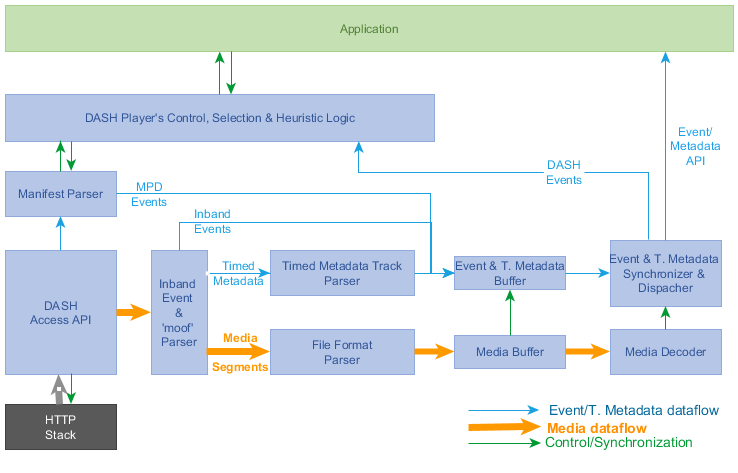
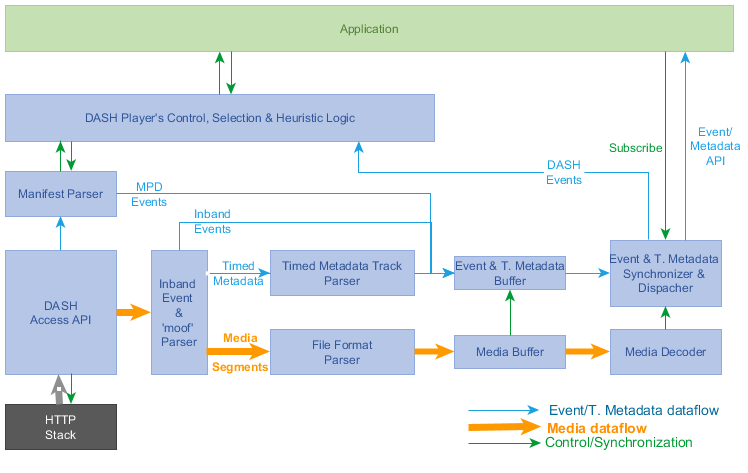
Addressing issues 29, 30 and 33

diff --git a/Output/event.html b/Output/event.html
@@ -1213,7 +1213,7 @@
 	}
 </style>
   <meta content="Bikeshed version 872cce6d3026423d677f3bd5837f1a1a46299a04" name="generator">
-  <link href="https://dashif.org/guidelines/name-of-doc" rel="canonical">
+  <link href="https://dashif.org/guidelines/Events-CR-v1.pdf" rel="canonical">
 <style>/* style-md-lists */
 
 /* This is a weird hack for me not yet following the commonmark spec
@@ -1464,7 +1464,7 @@
    <div data-fill-with="spec-metadata">
     <dl>
      <dt>This version:
-     <dd><a class="u-url" href="https://dashif.org/guidelines/name-of-doc">https://dashif.org/guidelines/name-of-doc</a>
+     <dd><a class="u-url" href="https://dashif.org/guidelines/Events-CR-v1.pdf">https://dashif.org/guidelines/Events-CR-v1.pdf</a>
      <dt>Issue Tracking:
      <dd><a href="https://github.com/Dash-Industry-Forum/Events/issues">GitHub</a>
      <dt class="editor">Editors:

diff --git a/01-Events.inc.md b/01-Events.inc.md
@@ -9,20 +9,23 @@
 
 In the above figure:
 
-1. DASH Player processes the MPD. If the manifest
-    includes any MPD Events, it parses them and appends them to Event & Timed Metadata Buffer.
+1. DASH Player processes the received MPD. The manifest information including the list of events schemes and values, and timed metadata track schemes are passed to Application.
 
-2. Based on the MPD, DASH Player manages fetching and parsing the Segments before appending them to Media Buffer.
+2. Application subscribes to the event and timed metadata track schemes in which is interested, with the desired dispatch mode. 
 
-3. Parsing a Segment includes:
+3. If the manifest includes any MPD Events, DASH Player parses them and appends them to Event & Timed Metadata Buffer.
+
+4. Based on the MPD, DASH Player manages fetching and parsing the Segments before appending them to Media Buffer.
+
+5. Parsing a Segment includes:
     
     1. Parse the high-level boxes such as Segment Index (sidx) and Event Message boxes, and append Event Message boxes to the Event & Metadata Buffer.
     2. For an Application-related timed metadata track, extracting the data samples, and appending them to Event & Metadata Buffer.
     3. For media segments, parse the segments and append them to Media Buffer.
 
-4. Event & Metadata Buffer is a FIFO buffer, passing the events and timed metadata samples to Event & Metadata Synchronizer and Dispatcher function.
+6. Event & Metadata Buffer is a FIFO buffer, passing the events and timed metadata samples to Event & Metadata Synchronizer and Dispatcher function.
 
-5. The DASH Player-specific Events are dispatched to DASH Player's Control, Selection & Heuristic Logic, while the Application-related Events and timed metadata track samples are dispatched to Application as the following. If an Application is subscribed to a specific Event or timed metadata stream, dispatch the corresponding event instances or timed metadata samples, according to the dispatch mode:
+7. The DASH Player-specific Events are dispatched to DASH Player's Control, Selection & Heuristic Logic, while the Application-related Events and timed metadata track samples are dispatched to Application as the following. If an Application is subscribed to a specific Event or timed metadata stream, dispatch the corresponding event instances or timed metadata samples, according to the dispatch mode:
     1. For [=on-receive=] dispatch mode, dispatch the Event information or timed metadata samples as soon as they are received(or no later than <var>AT</var>).
     2. For [=on-start=] dispatch mode, dispatch the Event information or timed metadata samples at their associated presentation time, using the synchronization signal from the media decoder.
 
@@ -193,9 +196,9 @@ Note: <var>ST</var> is always equal to or larger than <var>AT</var> in both vers
 
 Note: Since the media sample timescales might be different than emsg's timescale, <var>ST</var> might not line up with a media sample if different timescales are used.
 
-Note: If various Adaptation Sets carry the same events, different Adaptation Sets/Representations with different PTOs, the [=presentation_time_delta=] and/or [=presentation_time=] values might be different per Adaptation Set/Representation, i.e. the same emsg box can not be replicated over multiple Representations and/or Adaptations Sets.
+Note: If various Adaptation Sets carry the same events, different Adaptation Sets/Representations with different PTOs, the [=presentation_time_delta=] and/or [=presentation_time=] values might be different per Adaptation Set/Representation, i.e. the same emsg box can not be replicated over multiple Representations and/or Adaptations Sets. Therefore, the use of same PTOs cross Adaptation Sets/Representations which carry the same events is encouraged.
 
-Note: In the case of [=CMAF=], <var>PeriodStart</var> is the CMAF track's earliest presentation time.
+Note: In the case of [=CMAF=], <var>PeriodStart</var> is the CMAF track's earliest presentation time. If during the segment creation, this time is not known, it is recommeded to use the [=presentation_time_delta=].
 
 In this document, we use the following common variable names instead of some of above variables to harmonize parameters between Inband events, MPD events, and timed metadata samples:
 
